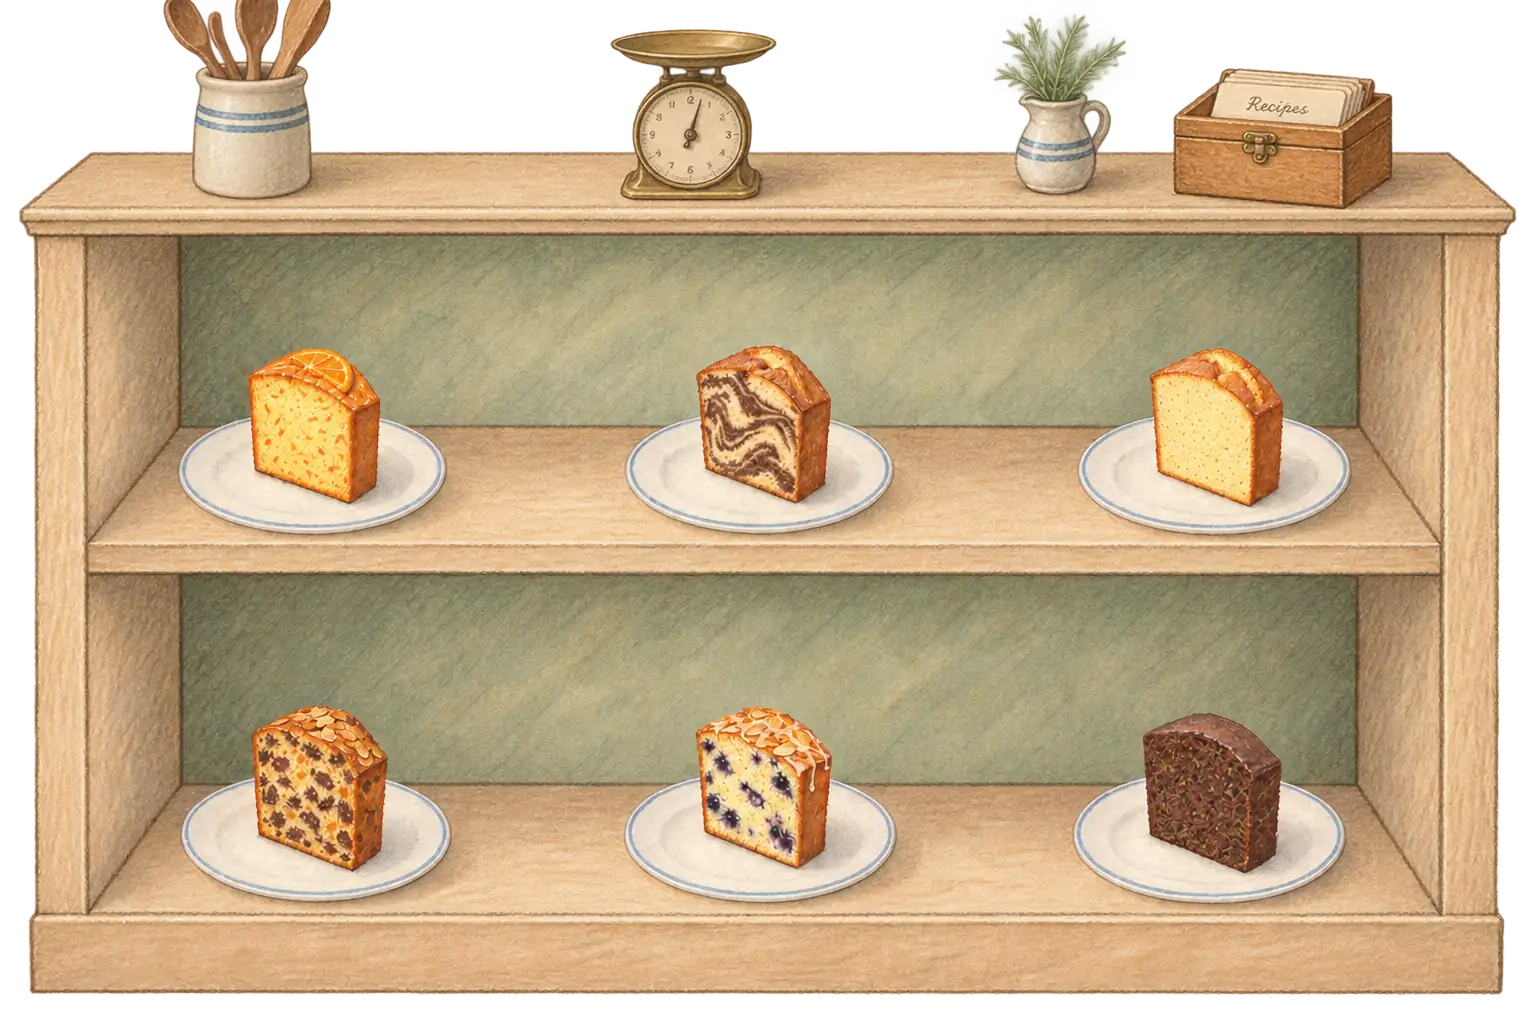
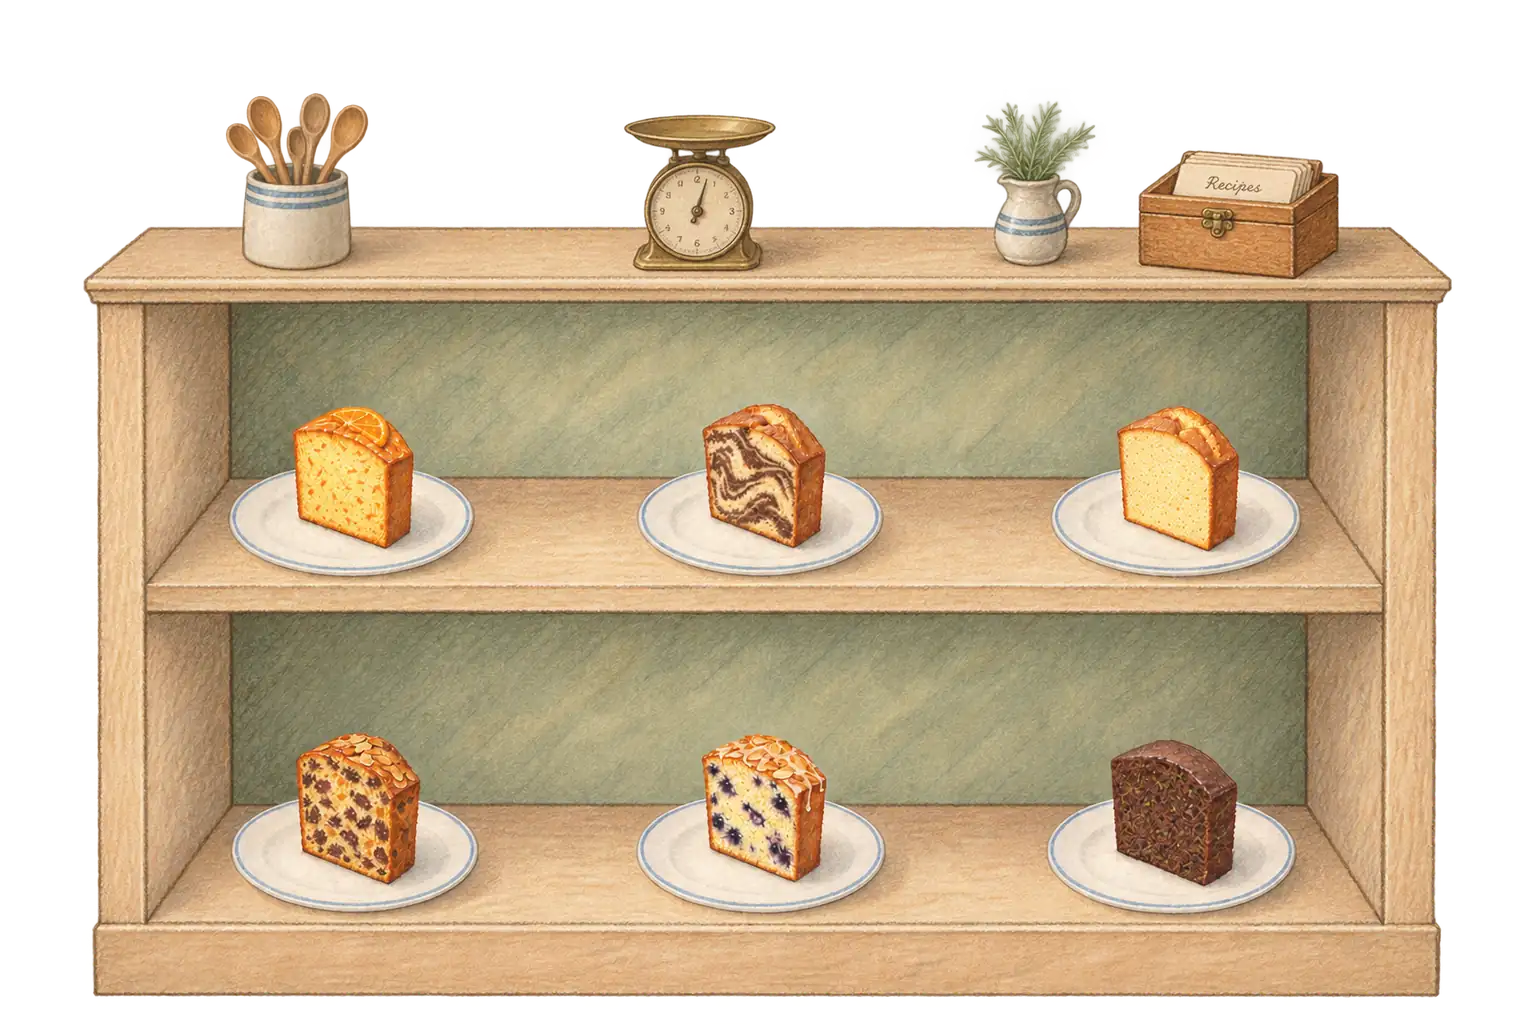
Fit the Recipes page in the window, and finish the cut-off wooden spoons
- The painting now sizes itself to the height left over after the heading and
  footer, so the whole page fits with no scrolling (checked 1100x650 up to
  1920x1080). Phones keep stacking the planks and scrolling, as before.
- The label cards and their type scale with the painting, so the names still
  fit when it is smaller.
- The spoons in the crock were cut flat by the top edge of the painting. The
  scene now sits slightly smaller and lower in the canvas, and the headroom
  that frees was painted in with the spoon handles completed; only that patch
  comes from the repaint, so every cake, plate and shelf is untouched and the
  cut-outs still line up. Cake boxes rescaled to match.

Claude-Session: https://claude.ai/code/session_01QV7fEaFaE6dcaSifX5vTod

diff --git a/recipe-shelf.css b/recipe-shelf.css
@@ -24,8 +24,14 @@
 .shelf-wrap{
   width:100%;box-sizing:border-box;
   max-width:1280px;margin:0 auto;
-  padding:clamp(2rem,6vh,3.4rem) clamp(1.2rem,3vw,2.5rem) 2.2rem;
+  padding:clamp(1.2rem,4vh,3.4rem) clamp(1.2rem,3vw,2.5rem) clamp(1rem,2vh,2.2rem);
+  /* fill the window, so the shelf can size itself to the space left over
+     and the whole page fits without scrolling */
+  flex:1;min-height:0;
+  display:flex;flex-direction:column;
 }
+/* the painting takes whatever height the heading and footer leave it */
+.shelf{flex:1 1 0;height:0;min-height:270px;display:flex;align-items:center;justify-content:center}
 
 
 /* ── Editorial heading: the title, and a note set over the third cake ── */
@@ -35,7 +41,7 @@
 }
 .shelf-title{
   font-family:var(--font-serif),'Noto Serif SC',serif;font-weight:300;
-  font-size:clamp(3.6rem,8vw,6.6rem);line-height:.8;letter-spacing:-.01em;
+  font-size:clamp(3rem,6vw + 1vh,6.6rem);line-height:.8;letter-spacing:-.01em;
   color:var(--ink);margin:0;
 }
 .head-note{padding-bottom:.1rem}
@@ -45,17 +51,25 @@
   color:var(--ochre);
 }
 .shelf-sub{
-  margin:0;max-width:14.6em;font-family:var(--font-lora),'Noto Serif SC',serif;font-style:italic;font-size:1.22rem;line-height:1.38;color:var(--ink);
+  margin:0;max-width:14.6em;font-family:var(--font-lora),'Noto Serif SC',serif;font-style:italic;font-size:clamp(1rem,.6vw + .8vh,1.22rem);line-height:1.38;color:var(--ink);
 }
 
 /* ── The cabinet (wider screens) ──
    Positions are shares of the painting's width (cqw), set per cake from
    SCENE in recipe-shelf.js. */
+/* The painting, as large as the leftover height and the column allow: it
+   stretches to the height the shelf row gives it, its width follows from the
+   aspect ratio, and the two caps keep it within 1120px wide either way. */
+.cab-fit{
+  height:100%;width:auto;
+  aspect-ratio:1536 / 1024;
+  max-width:min(100%, 1120px);
+  max-height:calc(1120px / 1.5);   /* cap height too, so the ratio always holds */
+}
 .cabinet{
   container-type:inline-size;
   position:relative;isolation:isolate;
-  width:min(100%, 1120px);margin:clamp(1.5rem,4vh,2.6rem) auto clamp(2rem,5vw,3.5rem);
-  aspect-ratio:1536 / 1024;
+  width:100%;height:100%;
 }
 .cabinet-img{
   position:absolute;inset:0;width:100%;height:100%;
@@ -80,8 +94,15 @@
 .slice-bare{transition:opacity .12s linear}
 .cabinet .slice-tag{
   position:absolute;top:var(--ty);left:var(--tx);
-  width:26.4cqw;height:4.4cqw;translate:-50% 0;
+  width:25.6cqw;height:4.3cqw;translate:-50% 0;
+  /* the card and its type scale with the painting, so the names always fit */
+  padding:.4cqw 1cqw;column-gap:.9cqw;
 }
+.cabinet .tag-no{min-width:1.9cqw;padding-right:.9cqw;font-size:clamp(.7rem,2.1cqw,1.5rem)}
+.cabinet .tag-no small{font-size:clamp(.42rem,.8cqw,.58rem);margin-bottom:.1cqw}
+.cabinet .tag-name{font-size:clamp(.62rem,1.42cqw,1.02rem)}
+.cabinet .tag-src{margin-top:.12cqw;font-size:clamp(.52rem,1.13cqw,.82rem)}
+.cabinet .tag-stamp{font-size:clamp(.5rem,.92cqw,.66rem);padding:.08cqw .55cqw;top:-.8cqw;right:-.8cqw}
 
 /* ── Planks (phones) ──
    The plank painting is 1481×321: its top surface runs from 1.6% to 58.5%
@@ -248,6 +269,9 @@ body.on-recipes .hf-toggle{display:none}
 
 /* Phones: two cakes per plank, and a simpler heading */
 @media (max-width:640px){
+  /* phones stack the planks and scroll, so the shelf is an ordinary block again */
+  .shelf-wrap{display:block}
+  .shelf{display:block;flex:none;height:auto;min-height:0}
   .shelf-head{grid-template-columns:1fr;gap:.8rem}
   .slice-tag{grid-template-columns:1fr;row-gap:.2rem;padding:.5rem .55rem;text-align:center}
   .tag-no{border:0;padding:0;flex-direction:row;gap:.25rem;align-items:baseline;font-size:1.1rem}

diff --git a/recipe-shelf.js b/recipe-shelf.js
@@ -46,12 +46,12 @@ function stampFor(id){
 // tx is the plate's centre within the box; ty the label's top within the box
 // (on the shelf lip for the upper floor, on the plinth for the lower).
 const SCENE = {
-  orange:       { x:10.742, y:21.484, w:19.531, h:14.323, tx: 9.635, ty:14.714 },
-  marble:       { x:39.388, y:21.484, w:19.857, h:14.323, tx: 9.896, ty:14.714 },
-  classic:      { x:69.01,  y:21.484, w:20.182, h:14.323, tx: 9.896, ty:14.714 },
-  rum:          { x:10.417, y:44.922, w:20.182, h:14.974, tx:10.067, ty:15.234 },
-  blueberry:    { x:39.388, y:44.922, w:20.182, h:14.974, tx: 9.993, ty:15.234 },
-  chocZucchini: { x:68.685, y:44.922, w:20.182, h:14.974, tx: 9.863, ty:15.234 },
+  orange:       { x:14.118, y:25.372, w:17.857, h:13.096, tx:8.809, ty:13.453 },
+  marble:       { x:40.309, y:25.372, w:18.155, h:13.096, tx:9.048, ty:13.453 },
+  classic:      { x:67.393, y:25.372, w:18.452, h:13.096, tx:9.048, ty:13.453 },
+  rum:          { x:13.821, y:46.801, w:18.452, h:13.691, tx:9.204, ty:13.928 },
+  blueberry:    { x:40.309, y:46.801, w:18.452, h:13.691, tx:9.137, ty:13.928 },
+  chocZucchini: { x:67.096, y:46.801, w:18.452, h:13.691, tx:9.018, ty:13.928 },
 };
 
 // A pencil-drawn arrow for the chapter links.
@@ -115,10 +115,14 @@ function buildShelf(){
     const all = entries.map(([id, r], i) => plankCakeHTML(id, r, i));
     for(let k = 0; k < all.length; k += 2) rows += shelfRow(all.slice(k, k + 2).join(''));
   } else {
+    // cab-fit sizes the painting to the space left on screen; .cabinet is the
+    // measuring box the cakes are placed in (its width drives their cqw units).
     rows = `
-      <div class="cabinet">
-        <img class="cabinet-img" src="./images/shelf/scene/cabinet.webp" alt="" width="1536" height="1024" aria-hidden="true">
-        ${entries.map(([id, r], i) => sceneCakeHTML(id, r, i)).join('')}
+      <div class="cab-fit">
+        <div class="cabinet">
+          <img class="cabinet-img" src="./images/shelf/scene/cabinet.webp" alt="" width="1536" height="1024" aria-hidden="true">
+          ${entries.map(([id, r], i) => sceneCakeHTML(id, r, i)).join('')}
+        </div>
       </div>`;
   }
   panel.innerHTML = `
